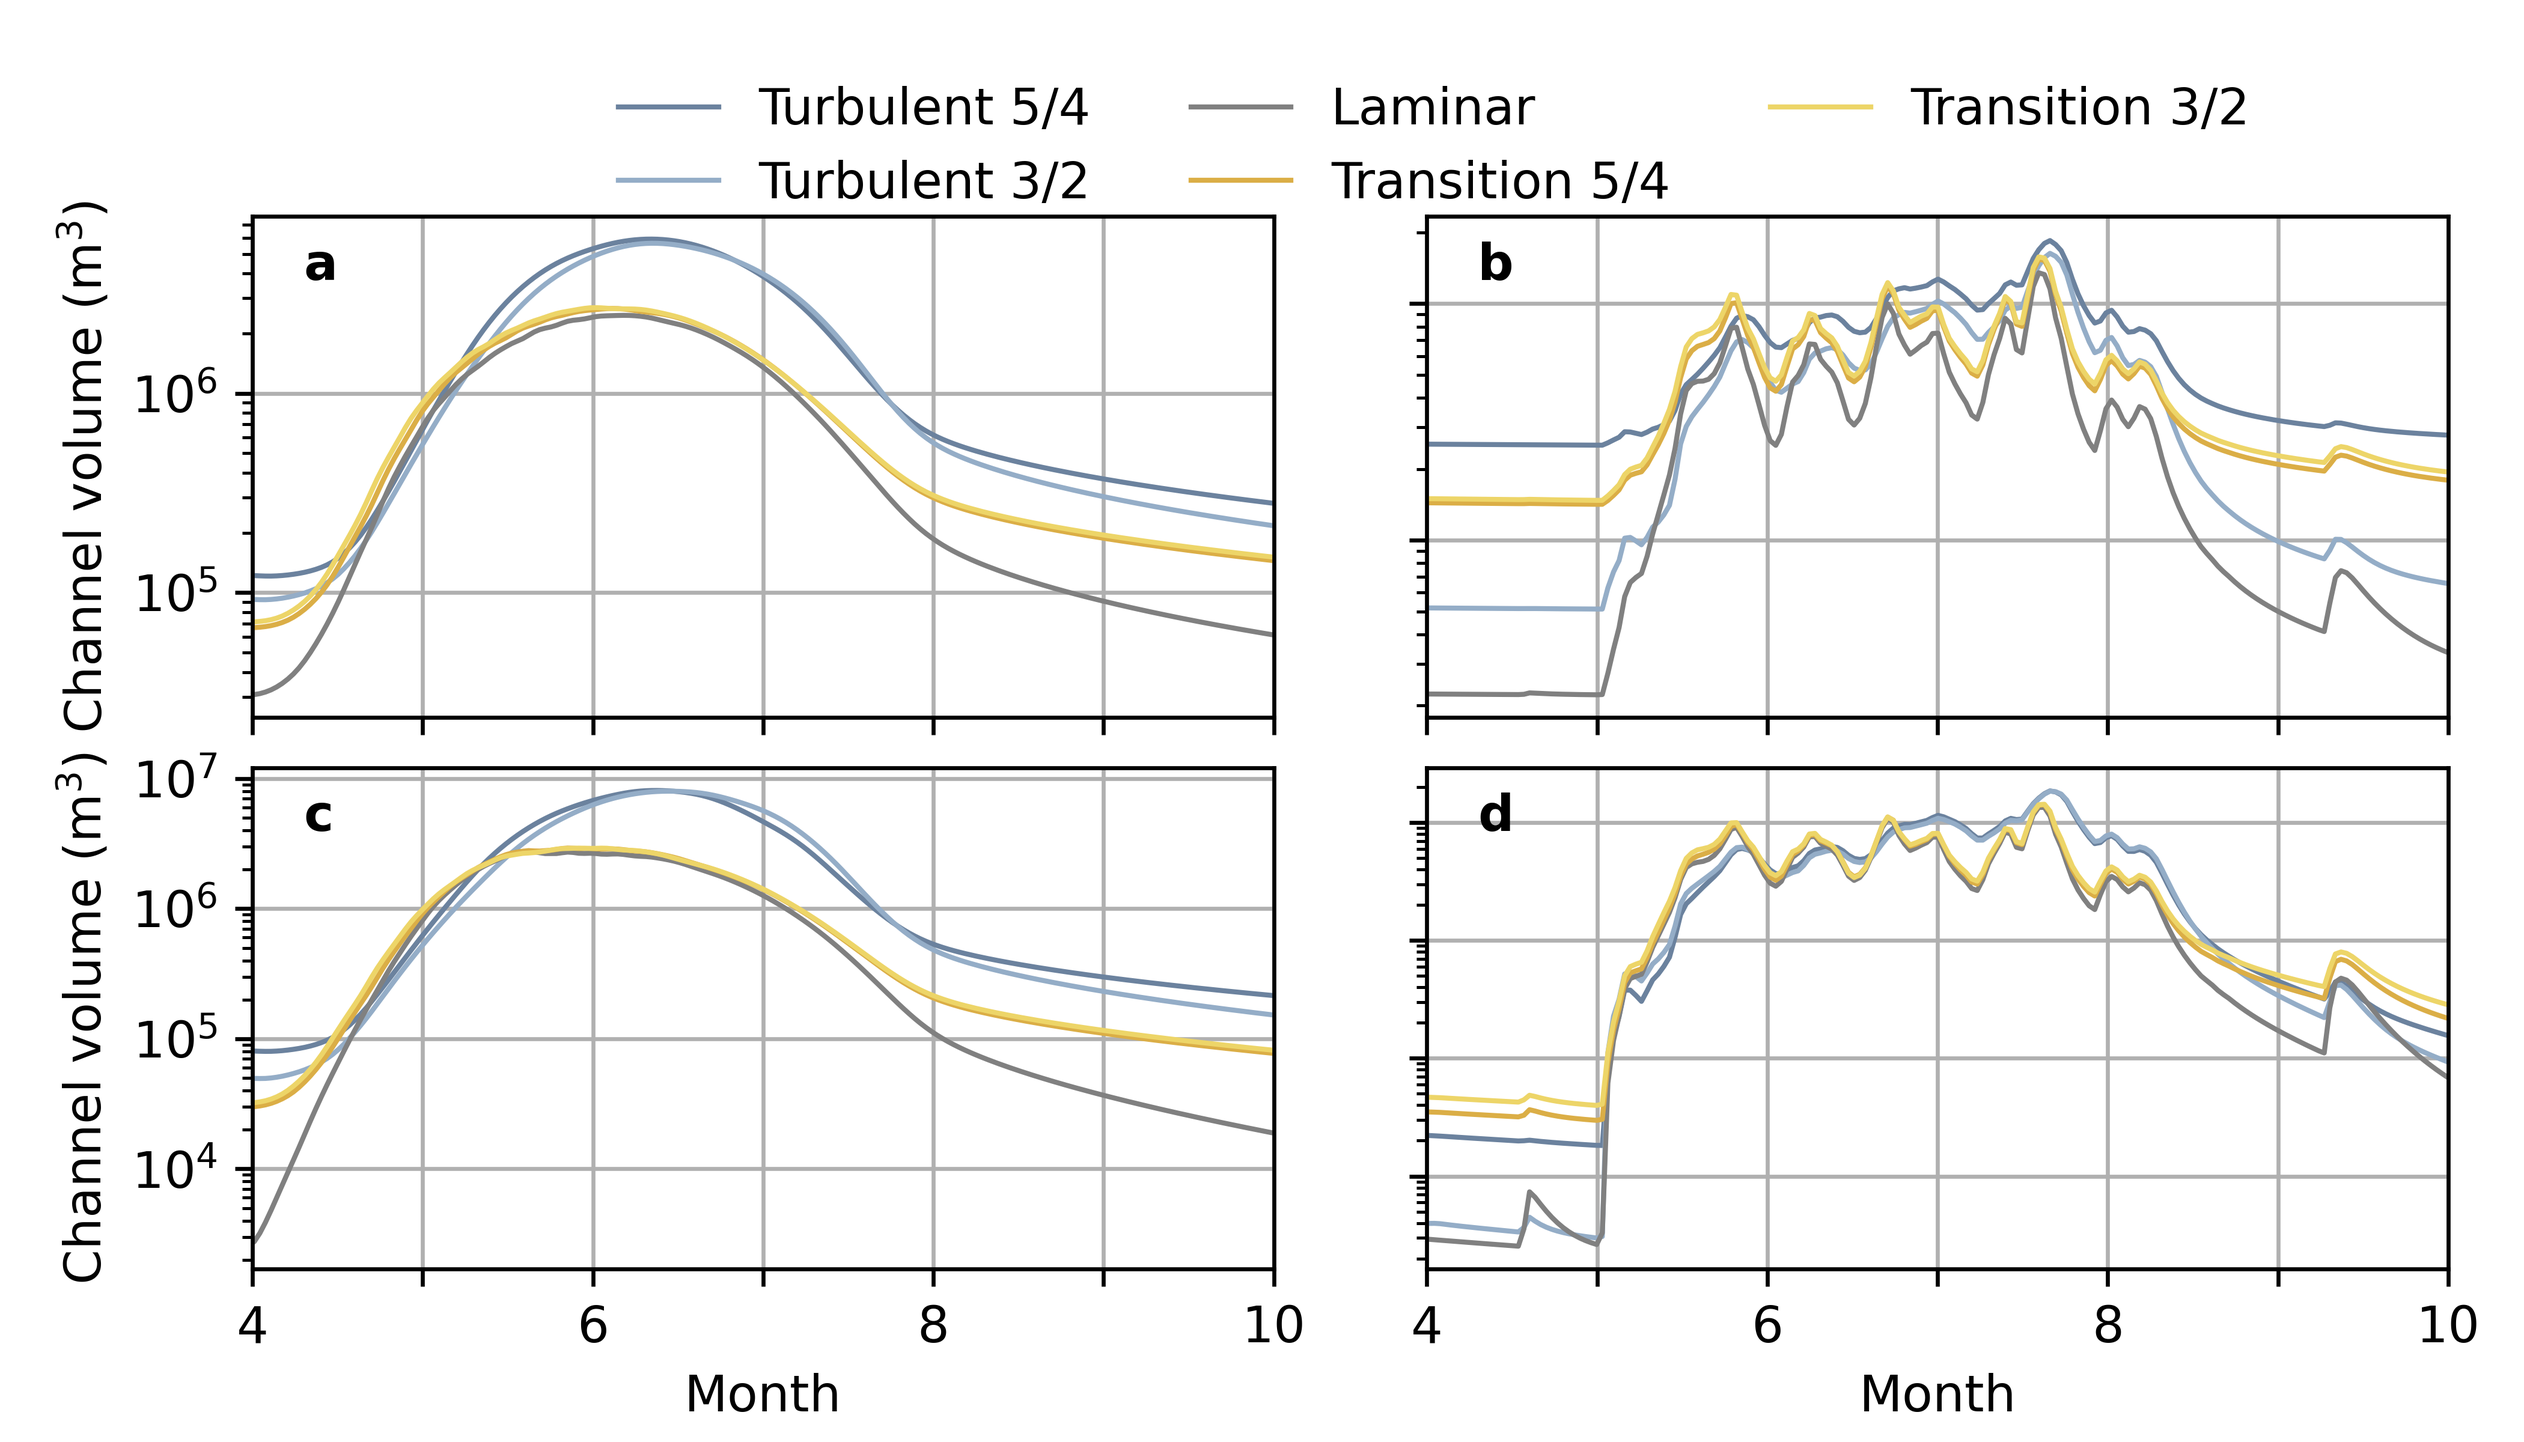
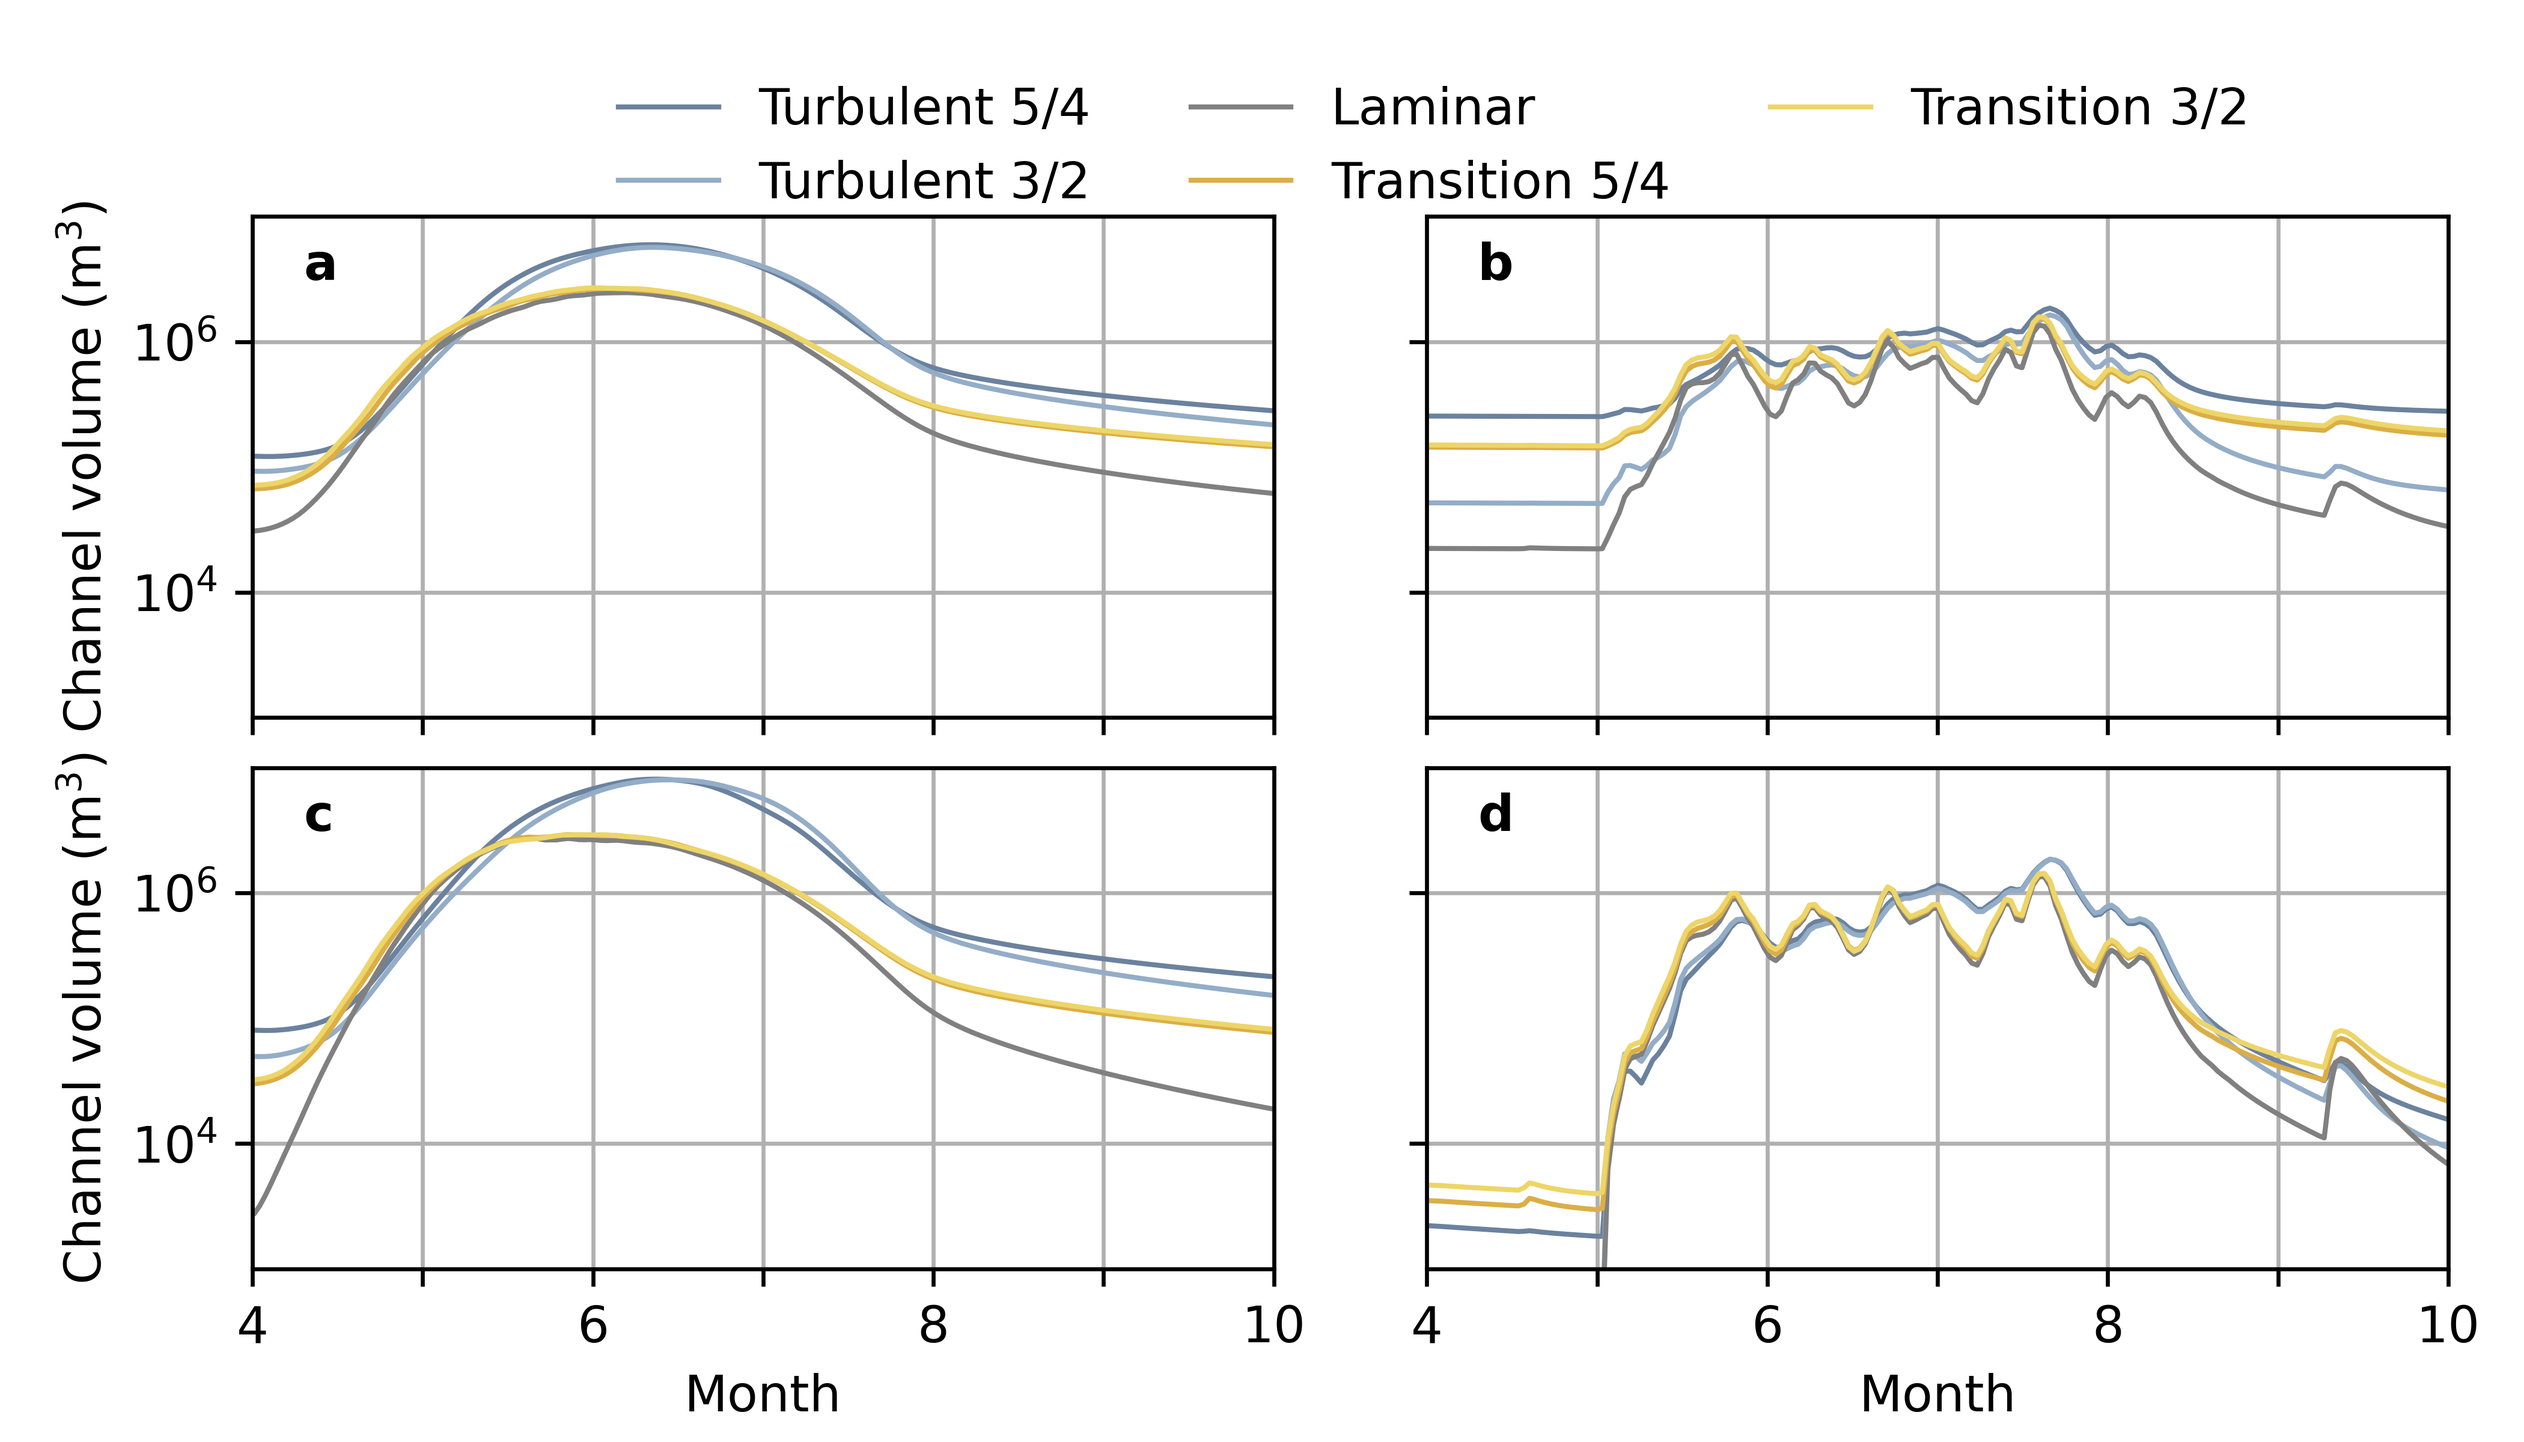
Ylims

diff --git a/analysis/plot_channel_volume.py b/analysis/plot_channel_volume.py
@@ -23,7 +23,7 @@ def plot_channel_volume(fnames, figname,
     x_band=defaults.x_bands[1], band_width=defaults.band_width, 
     figsize=figsize, labels=defaults.labels, 
     colors=defaults.colors, tlim=[1, 2],
-    t_ticks=[1.0, 1.25, 1.5, 1.75, 2], ylim=None,
+    t_ticks=[1.0, 1.25, 1.5, 1.75, 2], ylim=[1e3, 1e7],
     t_ticklabels=None, xlabel='Years',
     rhow=1000, g=9.81):
     """
@@ -106,8 +106,8 @@ def plot_channel_volume(fnames, figname,
         if t_ticklabels:
             ax.set_xticklabels(t_ticklabels)
 
-        # if ylim:
-        #     ax.set_ylim(ylim)
+        if ylim:
+            ax.set_ylim(ylim)
 
         ax.text(0.05, 0.95, alphabet[i], va='top', transform=ax.transAxes,
             fontweight='bold')
